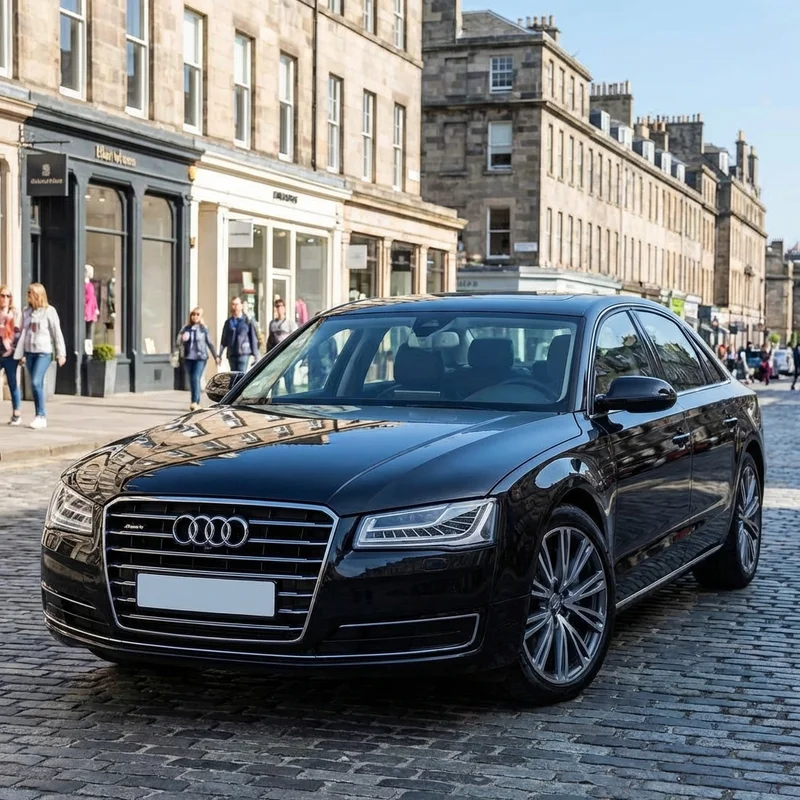
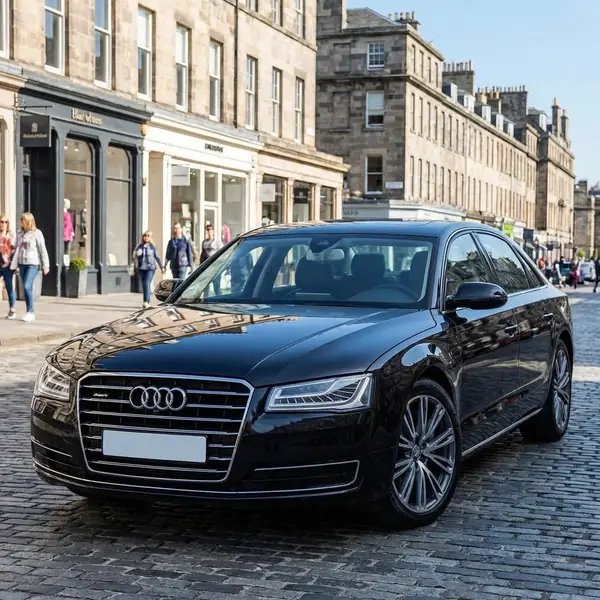
Aggressive image optimization - 97.4% size reduction
- Updated optimization script with aggressive compression
- Reduced image sizes: 300px logos, 80px badges, 1600px hero, 600px tiles
- Lower quality settings: 65-75% for maximum compression
- Converted all images to WebP format only (no PNG fallbacks)
- Updated all components to use WebP versions
- Total image size: 8.88 MB -> 230 KB (97.4% savings!)
- Expected page size: Under 500 KB

Changed region(s): [[0.84, 0.42, 0.87, 0.45]]

diff --git a/scripts/optimize-images.js b/scripts/optimize-images.js
@@ -4,101 +4,91 @@ const path = require('path');
 
 const publicDir = path.join(__dirname, '..', 'public');
 
-// Define optimization rules for different image types
+// Define optimization rules for different image types - VERY AGGRESSIVE
 const optimizations = [
-    // Logos - resize to reasonable dimensions
+    // Logos - smaller and more compressed
     {
         input: 'logo/header-logo.png',
         outputs: [
-            { file: 'logo/header-logo.webp', width: 400, format: 'webp', quality: 85 },
-            { file: 'logo/header-logo-optimized.png', width: 400, format: 'png', quality: 85 }
+            { file: 'logo/header-logo.webp', width: 300, format: 'webp', quality: 75 },
         ]
     },
     {
         input: 'logo/footer-logo.png',
         outputs: [
-            { file: 'logo/footer-logo.webp', width: 400, format: 'webp', quality: 85 },
-            { file: 'logo/footer-logo-optimized.png', width: 400, format: 'png', quality: 85 }
+            { file: 'logo/footer-logo.webp', width: 300, format: 'webp', quality: 75 },
         ]
     },
-    // Accreditation badges - very small
+    // Accreditation badges - tiny
     {
         input: 'logo-accreditation-classic.png',
         outputs: [
-            { file: 'logo-accreditation-classic.webp', width: 100, format: 'webp', quality: 85 },
-            { file: 'logo-accreditation-classic-optimized.png', width: 100, format: 'png', quality: 85 }
+            { file: 'logo-accreditation-classic.webp', width: 80, format: 'webp', quality: 70 },
         ]
     },
     {
         input: 'logo-accreditation-black-gold.png',
         outputs: [
-            { file: 'logo-accreditation-black-gold.webp', width: 100, format: 'webp', quality: 85 },
-            { file: 'logo-accreditation-black-gold-optimized.png', width: 100, format: 'png', quality: 85 }
+            { file: 'logo-accreditation-black-gold.webp', width: 80, format: 'webp', quality: 70 },
         ]
     },
     {
         input: 'logo-accreditation-clean.png',
         outputs: [
-            { file: 'logo-accreditation-clean.webp', width: 100, format: 'webp', quality: 85 },
-            { file: 'logo-accreditation-clean-optimized.png', width: 100, format: 'png', quality: 85 }
+            { file: 'logo-accreditation-clean.webp', width: 80, format: 'webp', quality: 70 },
         ]
     },
     {
         input: 'logo-accreditation-modern.png',
         outputs: [
-            { file: 'logo-accreditation-modern.webp', width: 100, format: 'webp', quality: 85 },
-            { file: 'logo-accreditation-modern-optimized.png', width: 100, format: 'png', quality: 85 }
+            { file: 'logo-accreditation-modern.webp', width: 80, format: 'webp', quality: 70 },
         ]
     },
-    // Hero background
+    // Hero background - much smaller and compressed
     {
         input: 'hero-bg.png',
         outputs: [
-            { file: 'hero-bg.webp', width: 1920, format: 'webp', quality: 80 },
-            { file: 'hero-bg-optimized.png', width: 1920, format: 'png', quality: 80 }
+            { file: 'hero-bg.webp', width: 1600, format: 'webp', quality: 65 },
         ]
     },
-    // Map
+    // Map - smaller
     {
         input: 'au-map.png',
         outputs: [
-            { file: 'au-map.webp', width: 1200, format: 'webp', quality: 85 },
-            { file: 'au-map-optimized.png', width: 1200, format: 'png', quality: 85 }
+            { file: 'au-map.webp', width: 800, format: 'webp', quality: 75 },
         ]
     },
-    // Tile images
+    // Tile images - smaller and more compressed
     {
         input: 'tile-driver.png',
         outputs: [
-            { file: 'tile-driver.webp', width: 800, format: 'webp', quality: 85 },
-            { file: 'tile-driver-optimized.png', width: 800, format: 'png', quality: 85 }
+            { file: 'tile-driver.webp', width: 600, format: 'webp', quality: 70 },
         ]
     },
     {
         input: 'tile-meeting-1.png',
         outputs: [
-            { file: 'tile-meeting-1.webp', width: 800, format: 'webp', quality: 85 },
-            { file: 'tile-meeting-1-optimized.png', width: 800, format: 'png', quality: 85 }
+            { file: 'tile-meeting-1.webp', width: 600, format: 'webp', quality: 70 },
         ]
     },
     {
         input: 'tile-woman-phone.png',
         outputs: [
-            { file: 'tile-woman-phone.webp', width: 800, format: 'webp', quality: 85 },
-            { file: 'tile-woman-phone-optimized.png', width: 800, format: 'png', quality: 85 }
+            { file: 'tile-woman-phone.webp', width: 600, format: 'webp', quality: 70 },
         ]
     },
     {
         input: 'tile-audi.png',
         outputs: [
-            { file: 'tile-audi.webp', width: 800, format: 'webp', quality: 85 },
-            { file: 'tile-audi-optimized.png', width: 800, format: 'png', quality: 85 }
+            { file: 'tile-audi.webp', width: 600, format: 'webp', quality: 70 },
         ]
     }
 ];
 
 async function optimizeImages() {
-    console.log('🖼  Starting image optimization...\n');
+    console.log('🖼  Starting AGGRESSIVE image optimization...\n');
+    let totalOriginal = 0;
+    let totalOptimized = 0;
 
     for (const opt of optimizations) {
         const inputPath = path.join(publicDir, opt.input);
@@ -109,6 +99,7 @@ async function optimizeImages() {
         }
 
         const inputStats = fs.statSync(inputPath);
+        totalOriginal += inputStats.size;
         console.log(`📁 Processing: ${opt.input} (${(inputStats.size / 1024).toFixed(2)} KB)`);
 
         for (const output of opt.outputs) {
@@ -127,14 +118,22 @@ async function optimizeImages() {
                 });
 
                 if (output.format === 'webp') {
-                    pipeline = pipeline.webp({ quality: output.quality });
+                    pipeline = pipeline.webp({
+                        quality: output.quality,
+                        effort: 6 // Maximum compression effort
+                    });
                 } else if (output.format === 'png') {
-                    pipeline = pipeline.png({ quality: output.quality, compressionLevel: 9 });
+                    pipeline = pipeline.png({
+                        quality: output.quality,
+                        compressionLevel: 9,
+                        effort: 10
+                    });
                 }
 
                 await pipeline.toFile(outputPath);
 
                 const outputStats = fs.statSync(outputPath);
+                totalOptimized += outputStats.size;
                 const savings = ((1 - outputStats.size / inputStats.size) * 100).toFixed(1);
                 console.log(`  ✅ ${output.file} (${(outputStats.size / 1024).toFixed(2)} KB) - ${savings}% smaller`);
             } catch (error) {
@@ -145,6 +144,9 @@ async function optimizeImages() {
     }
 
     console.log('✨ Image optimization complete!');
+    console.log(`📊 Total original: ${(totalOriginal / 1024 / 1024).toFixed(2)} MB`);
+    console.log(`📊 Total optimized: ${(totalOptimized / 1024).toFixed(2)} KB`);
+    console.log(`📊 Total savings: ${((1 - totalOptimized / totalOriginal) * 100).toFixed(1)}%`);
 }
 
 optimizeImages().catch(console.error);

diff --git a/src/components/Footer.tsx b/src/components/Footer.tsx
@@ -40,11 +40,11 @@ export default function Footer() {
                     <div className={`${styles.column} ${styles.logoColumn}`}>
                         <div className={styles.brandWrapper}>
                             <Image
-                                src="/logo/footer-logo.png"
+                                src="/logo/footer-logo.webp"
                                 alt="Auzzie Chauffeur"
-                                width={200}
-                                height={119}
-                                style={{ height: '119px', width: 'auto', marginBottom: '1rem' }}
+                                width={300}
+                                height={178}
+                                style={{ height: 'auto', width: '200px', marginBottom: '1rem' }}
                             />
                         </div>
 
@@ -82,10 +82,10 @@ export default function Footer() {
                     {/* Column 4: Awards & Socials */}
                     <div className={styles.column}>
                         <div className={styles.awardsGrid}>
-                            <Image src="/logo-accreditation-classic.png" alt="Accredited Chauffeur" className={styles.awardImage} width={80} height={80} />
-                            <Image src="/logo-accreditation-black-gold.png" alt="5 Star Service" className={styles.awardImage} width={80} height={80} />
-                            <Image src="/logo-accreditation-clean.png" alt="Verified Partner" className={styles.awardImage} width={80} height={80} />
-                            <Image src="/logo-accreditation-modern.png" alt="Accredited" className={styles.awardImage} width={80} height={80} />
+                            <Image src="/logo-accreditation-classic.webp" alt="Accredited Chauffeur" className={styles.awardImage} width={80} height={80} />
+                            <Image src="/logo-accreditation-black-gold.webp" alt="5 Star Service" className={styles.awardImage} width={80} height={80} />
+                            <Image src="/logo-accreditation-clean.webp" alt="Verified Partner" className={styles.awardImage} width={80} height={80} />
+                            <Image src="/logo-accreditation-modern.webp" alt="Accredited" className={styles.awardImage} width={80} height={80} />
                         </div>
 
                         <h4 className={styles.columnTitle} style={{ marginTop: '1rem' }}>SECURE PAYMENTS</h4>

diff --git a/src/components/NationalCoverage.tsx b/src/components/NationalCoverage.tsx
@@ -46,7 +46,7 @@ export default function NationalCoverage() {
         <section className={styles.section}>
             {/* Background Map Image */}
             <div className={styles.mapBackground}>
-                <Image src="/au-map.png" alt="Auzzie Chauffeur National Coverage Map Australia" className={styles.mapImage} width={1200} height={800} />
+                <Image src="/au-map.webp" alt="Auzzie Chauffeur National Coverage Map Australia" className={styles.mapImage} width={800} height={800} />
                 {/* Decorative dots loosely positioned for visual effect */}
                 <div className={styles.mapDot} style={{ top: '65%', right: '25%' }}></div> {/* Sydneyish */}
                 <div className={styles.mapDot} style={{ top: '70%', right: '30%' }}></div> {/* Melbourneish */}

diff --git a/src/components/Navbar.tsx b/src/components/Navbar.tsx
@@ -97,13 +97,13 @@ export default function Navbar() {
                 {/* Logo Section */}
                 <Link href="/" className={styles.brandWrapper} onClick={() => setMobileMenuOpen(false)}>
                     <Image
-                        src="/logo/header-logo.png"
+                        src="/logo/header-logo.webp"
                         alt="Auzzie Chauffeur"
                         className={styles.logoImage}
-                        width={200}
-                        height={119}
+                        width={300}
+                        height={178}
                         priority
-                        style={{ height: '119px', width: 'auto' }}
+                        style={{ height: 'auto', width: '200px' }}
                     />
                 </Link>
 

diff --git a/src/components/Hero.module.css b/src/components/Hero.module.css
@@ -3,7 +3,7 @@
     width: 100%;
     /* Use min-height to ensure it covers viewport but expands for content */
     min-height: 100vh;
-    background-image: url('/hero-bg.png');
+    background-image: url('/hero-bg.webp');
     background-size: cover;
     background-position: center;
     background-repeat: no-repeat;

diff --git a/src/app/layout.tsx b/src/app/layout.tsx
@@ -71,7 +71,7 @@ export default function RootLayout({
       <head>
         <link
           rel="preload"
-          href="/hero-bg.png"
+          href="/hero-bg.webp"
           as="image"
           fetchPriority="high"
         />
